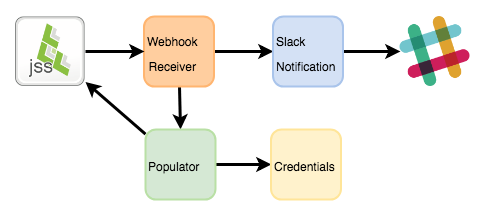
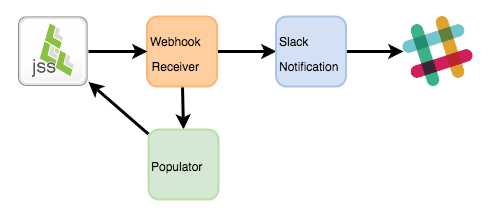
updated readme, removed credentials component

Changed region(s): [[0.0306, 0.0553, 0.9796, 0.9401]]

diff --git a/readme.md b/readme.md
@@ -26,7 +26,7 @@ Assume this Slack integration was built to notify a channel about device enrollm
 
 ![Example Diagrams](images/Example02.png)
 
-The Populator and Credentials components are added onto the existing integration without having to make changes or updates to the pre-existing ones. Now, as the Slack channel is being notified the device record is being automatically updated.
+The Populator component is added onto the existing integration without having to make changes or updates to the pre-existing ones. Now, as the Slack channel is being notified the device record is being automatically updated.
 
 ## Components:
 
@@ -36,26 +36,21 @@ The Populator and Credentials components are added onto the existing integration
 - Supports optional token authentication (as a query string parameter).
 - Supports basic authentication (username:password).
 
-![Component Diagrams](images/WebhookReceiver.png)
+![Component Diagrams](WebhookReceiver/WebhookReceiver.png)
     
 ### Slack Notification
 - Attach to a Webhook Processor to send notifications to a Slack channel.
 - Events can be filtered to prevent notifications.
 
-![Component Diagrams](images/SlackNotification.png)
+![Component Diagrams](SlackNotification/SlackNotification.png)
 
-### Credentials
-- Save a Jamf Pro account username and password into Parameter Store for use by other components that call the Jamf Pro API.
-
-![Component Diagrams](images/Credentials.png)
-
-### Poller _(Planned)_
+### Poller
 - Run scheduled read operations using the Jamf Pro API.
     + Smart Groups
     + Advanced Searches
 - Creates SNS topic to publish API results to.
 
-![Component Diagrams](images/Poller.png)
+![Component Diagrams](Poller/Poller.png)
 
 ### Populator _(Planned)_
 - Attach to a Webhook Processor.
